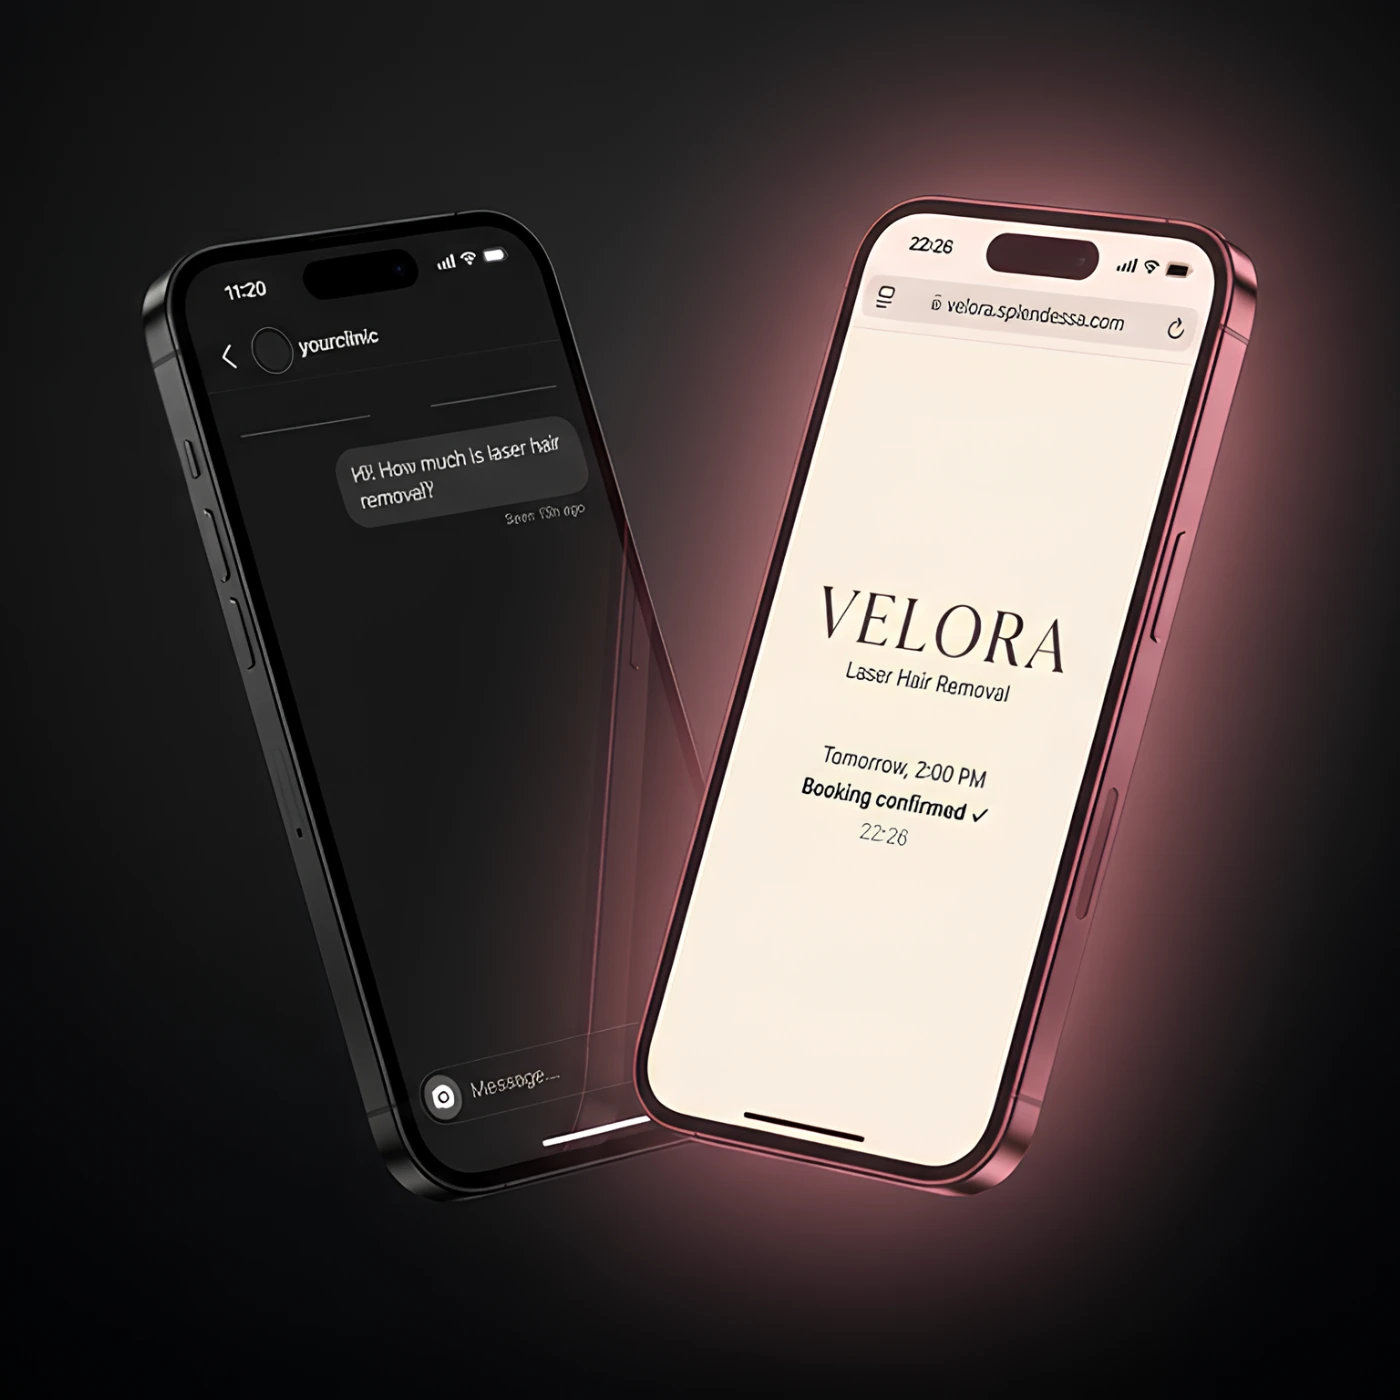
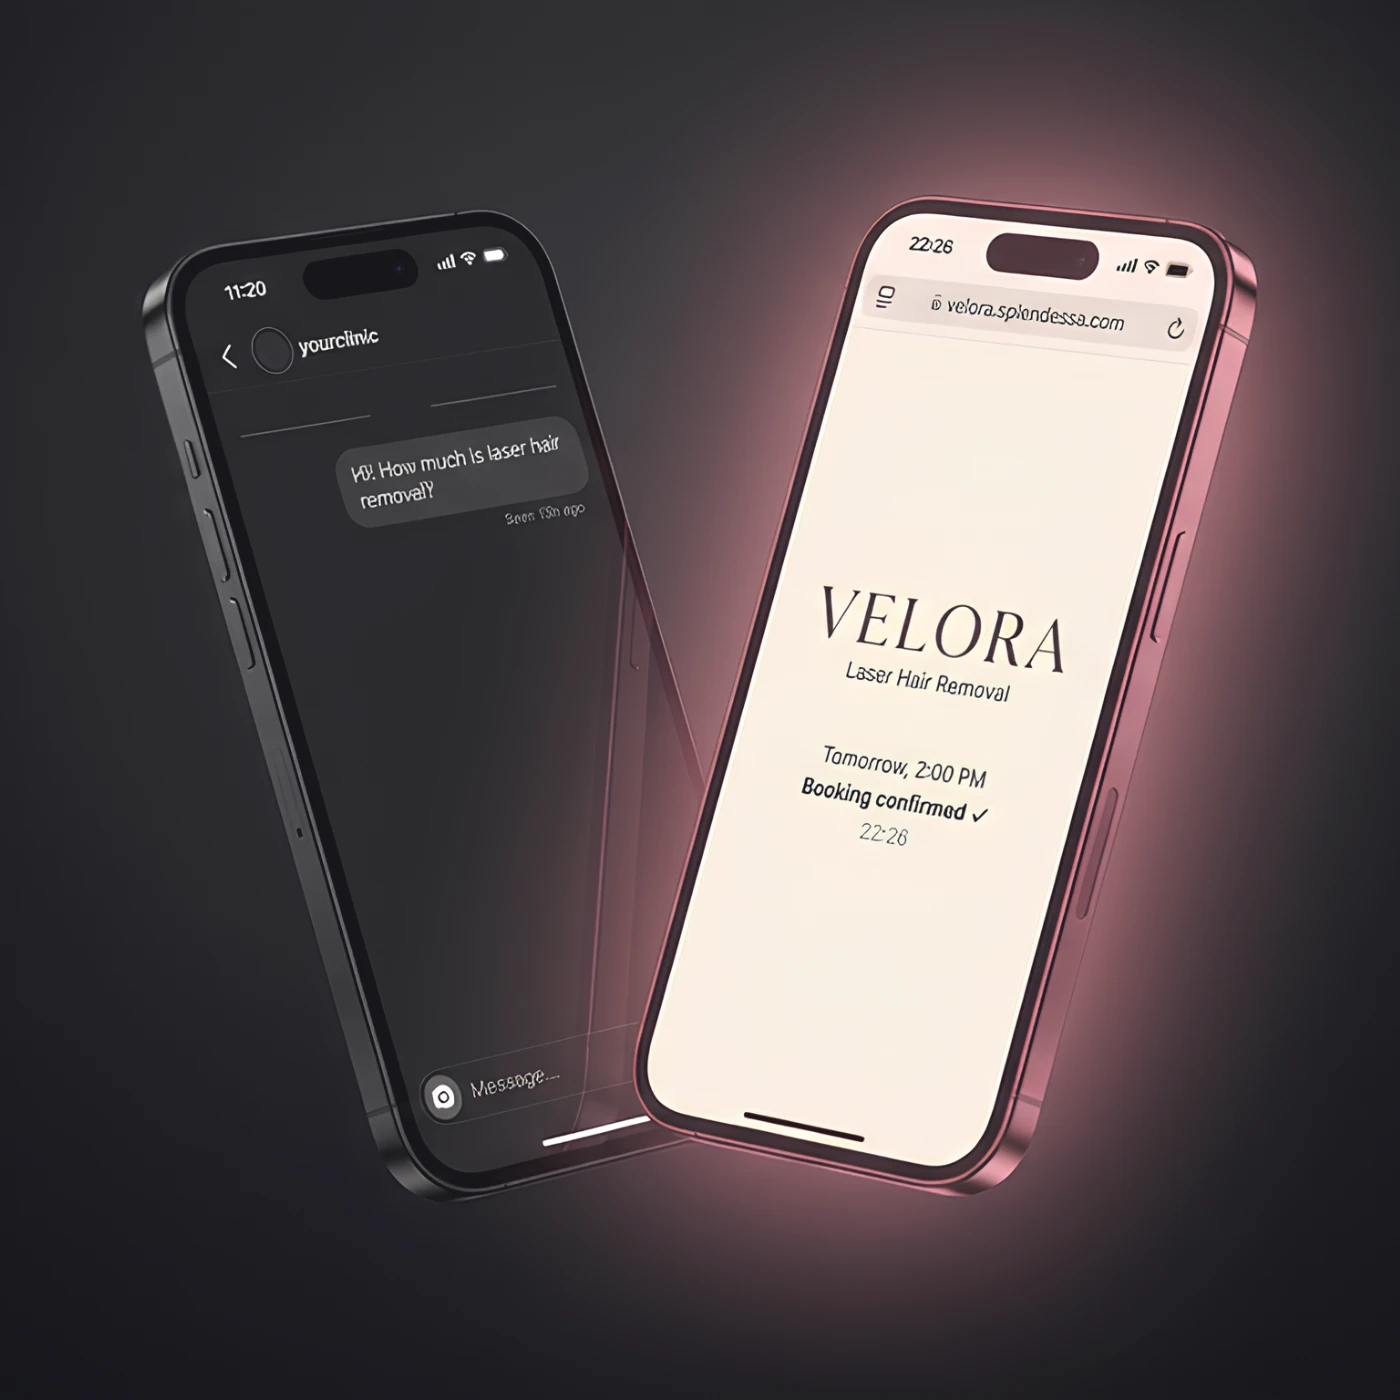
debug: log payload

diff --git a/css/styles.css b/css/styles.css
@@ -30,6 +30,7 @@
   --grey-on-dark: #A6A3AD;
   --grey-on-light: #5F5D66;
   --theme-fade: .7s;
+  --section-px: 24px; /* main>section's horizontal gutter, referenced by full-bleed breakouts */
 }
 
 * { margin: 0; padding: 0; box-sizing: border-box; }
@@ -113,7 +114,7 @@ main > section {
   align-items: center;
   text-align: center;
   gap: 2.5rem;
-  padding: clamp(96px, 14vh, 160px) 24px;
+  padding: clamp(96px, 14vh, 160px) var(--section-px);
 }
 main > section > * {
   width: 100%;
@@ -199,7 +200,18 @@ body[data-theme="light"] .logo { color: var(--fg); }
 
 /* ---------- 02 / The Diagnosis ---------- */
 
-.diagnosis-figure { width: 100%; }
+/* Full-bleed breakout: the figure's containing block (.diagnosis section's content
+   box) is already inset by --section-px on each side, and by the main>section>*
+   max-width:1100px rule. "100% + 2 * --section-px" cancels that inset exactly —
+   using the section's own padding var (not 100vw) so it's correct regardless of
+   scrollbar width and needs no per-breakpoint override, since --section-px is
+   constant at every viewport size already. */
+.diagnosis-figure {
+  width: calc(100% + 2 * var(--section-px));
+  max-width: calc(100% + 2 * var(--section-px));
+  margin-left: calc(-1 * var(--section-px));
+  margin-right: calc(-1 * var(--section-px));
+}
 
 .diagnosis-img {
   width: 100%;
@@ -208,6 +220,13 @@ body[data-theme="light"] .logo { color: var(--fg); }
 }
 
 .diagnosis-caption {
+  /* The image above is full-bleed; pull the caption back into the normal
+     content column (same 1100px cap + gutter as every other section). */
+  max-width: 1100px;
+  margin-left: auto;
+  margin-right: auto;
+  padding-left: var(--section-px);
+  padding-right: var(--section-px);
   margin-top: 28px; /* same caption offset as the old .phone-caption */
   display: grid;
   grid-template-columns: 1fr 1fr;